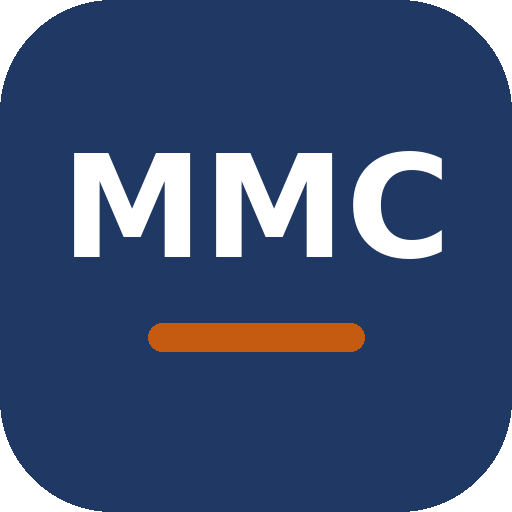
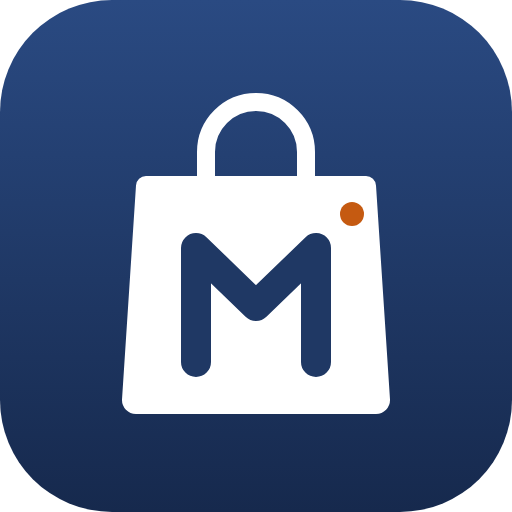
Nouvelle icône (sac signé M)
Claude-Session: https://claude.ai/code/session_01N2v3PMWVBVQD71xs2sXFak

Changed region(s): [[0.125, 0.1562, 0.875, 0.8125], [0.0312, 0.0, 0.9688, 0.125]]

diff --git a/sw.js b/sw.js
@@ -1,6 +1,6 @@
-/* MAGASIN MOINS CHER — fonctionnement hors ligne. Version 3.0 */
-const MEMOIRE = 'mmc-3.0';
-const FICHIERS = ['./', './index.html', './manifest.webmanifest', './icone-192.png', './icone-512.png', './icone-maskable.png'];
+/* MAGASIN MOINS CHER — fonctionnement hors ligne. Version 3.0-48bd776f */
+const MEMOIRE = 'mmc-3.0-48bd776f';
+const FICHIERS = ['./', './index.html', './manifest.webmanifest', './icone-192.png', './icone-512.png', './icone-maskable.png', './favicon-32.png'];
 self.addEventListener('install', e => {
   e.waitUntil(caches.open(MEMOIRE).then(c => c.addAll(FICHIERS)).then(() => self.skipWaiting()));
 });

diff --git a/index.html b/index.html
@@ -5,7 +5,7 @@
 <title>MAGASIN MOINS CHER</title>
 <meta name="theme-color" content="#1F3864">
 <link rel="manifest" href="manifest.webmanifest">
-<link rel="icon" href="icone-192.png">
+<link rel="icon" href="favicon-32.png">
 <link rel="apple-touch-icon" href="icone-192.png">
 <meta charset="utf-8">
 <style>
